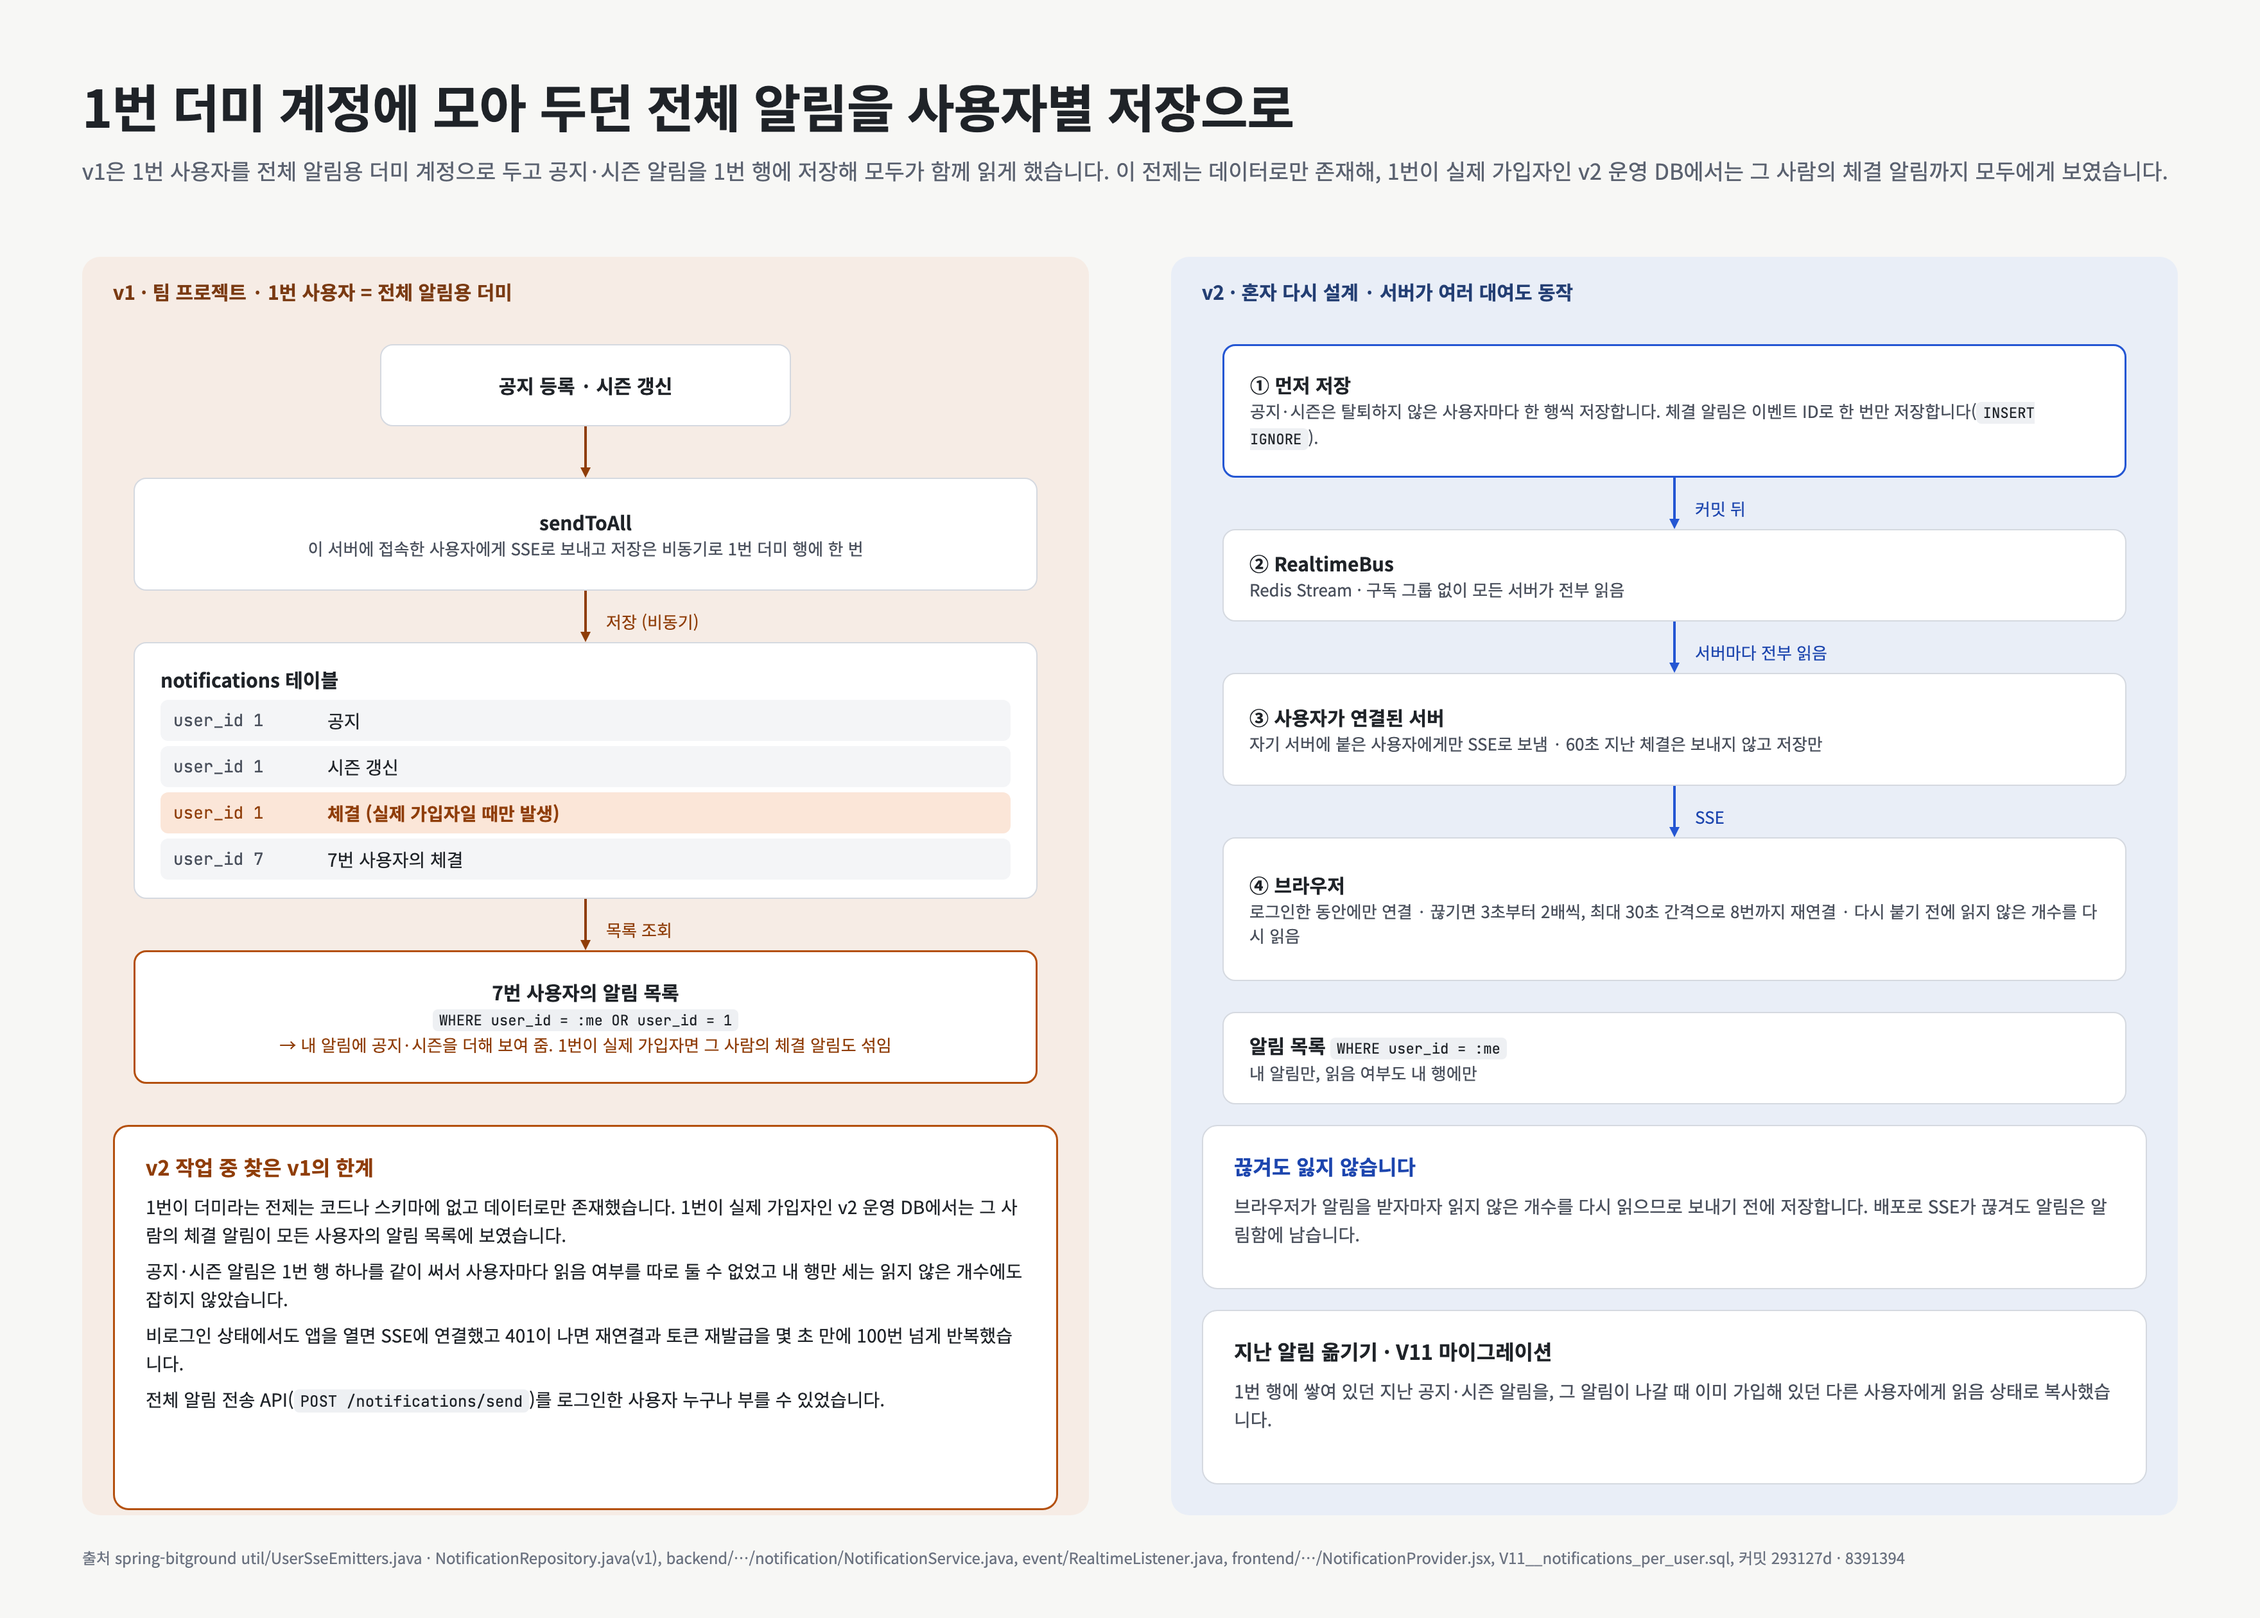
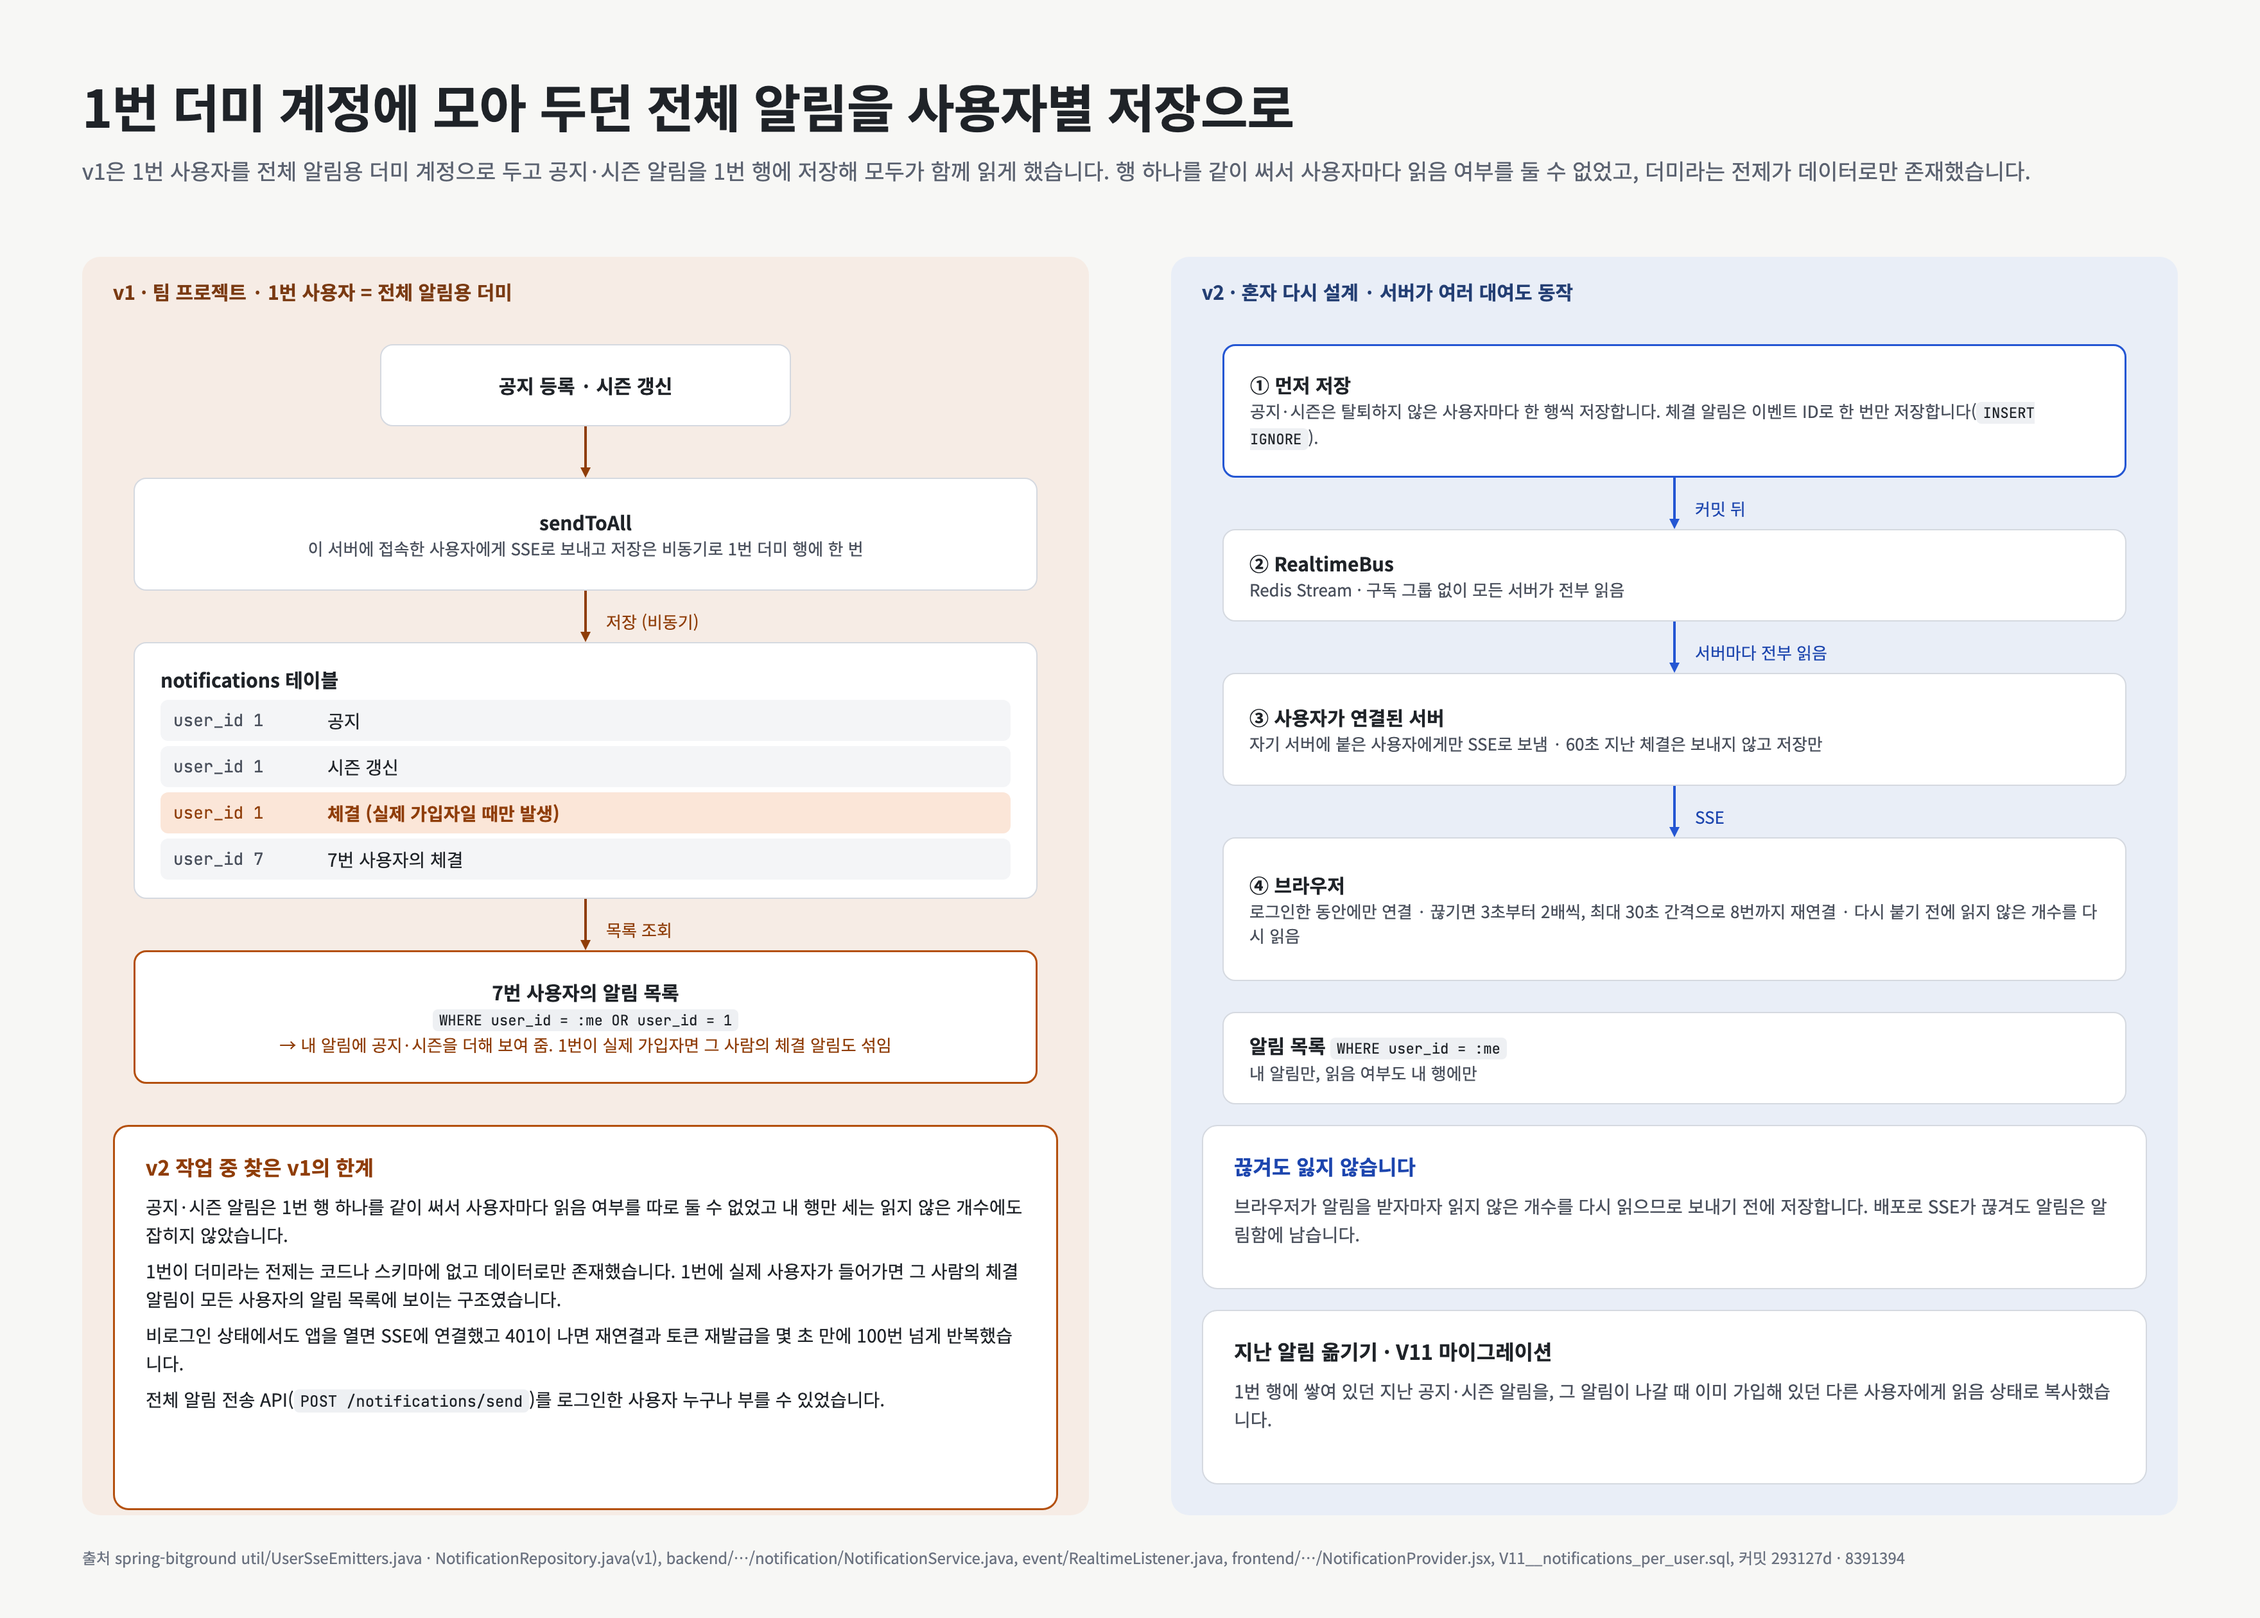
docs: 알림 한계 설명 바로잡기 — 운영 DB의 1번도 더미 계정 (v2.2.9)

Changed region(s): [[0.0625, 0.7429, 0.4375, 0.8048], [0.5, 0.0929, 0.9375, 0.1238]]

diff --git a/README.md b/README.md
@@ -53,7 +53,7 @@
 - **근거**: 커밋 [4f05885](https://github.com/lepe99/bitground/commit/4f05885) · [0749c83](https://github.com/lepe99/bitground/commit/0749c83) · [38aea34](https://github.com/lepe99/bitground/commit/38aea34), 통합 테스트 [main_test.go](scheduler/main_test.go)(커밋 [328f423](https://github.com/lepe99/bitground/commit/328f423)) · [season_test.go](scheduler/service/season_test.go), 그림 [시즌 정산 이전·이후](docs/DIAGRAMS.md#시즌-정산-v1-대-v2) · [Lambda 분리](docs/DIAGRAMS.md#스케줄러-lambda-분리)
 
 ### 3. 알림 (SSE)
-- **찾은 한계**: 공지·시즌 알림을 1번 사용자(전체 알림용 더미 계정)에게 모아 모두가 함께 읽게 했는데, 더미라는 전제가 코드나 스키마에 없고 데이터로만 존재했습니다. 1번이 실제 가입자인 운영 DB에서는 **그 사람의 체결 알림이 모든 사용자에게 보였습니다.** 읽음 여부도 1번 행 하나를 같이 써서 읽지 않은 개수에 잡히지 않았고, 비로그인 상태에서도 재연결을 몇 초에 100번 넘게 반복했습니다.
+- **찾은 한계**: 공지·시즌 알림을 1번 사용자(전체 알림용 더미 계정) 행 하나에 저장해 모두가 함께 읽게 해서, 사용자마다 읽음 여부를 둘 수 없었고 읽지 않은 개수에도 잡히지 않았습니다. 더미라는 전제는 코드나 스키마에 없이 데이터로만 존재해, 1번에 실제 사용자가 들어가면 그 사람의 체결 알림이 모두에게 보이는 구조였습니다. 비로그인 상태에서도 재연결을 몇 초에 100번 넘게 반복했습니다.
 - **해법**: 사용자별 저장과 지난 알림 백필, 로그인했을 때만 연결하고 지수 백오프로 재연결합니다. 알림은 먼저 저장하고 커밋 뒤에 보내며 여러 서버 중 사용자가 붙어 있는 서버가 보냅니다. 배포로 SSE가 끊겨도 알림은 알림함에 남습니다.
 - **근거**: 커밋 [293127d](https://github.com/lepe99/bitground/commit/293127d) · [8391394](https://github.com/lepe99/bitground/commit/8391394), 테스트 [UserSseEmittersTest](backend/src/test/java/bit/bitgroundspring/notification/UserSseEmittersTest.java) · [NotificationApiTest](backend/src/test/java/bit/bitgroundspring/api/NotificationApiTest.java), 그림 [알림 이전·이후](docs/DIAGRAMS.md#알림-v1-대-v2)
 

diff --git a/CHANGELOG.md b/CHANGELOG.md
@@ -11,6 +11,7 @@ PR에서 세 곳의 버전이 같은지와 새 버전인지 검사하고, 병합
 ### 문서
 - README를 현재 버전 중심으로 다시 썼습니다. 팀 프로젝트(v1)와의 비교표와 v1 역할 설명을 빼고, 'v1 → v2' 섹션은 '다시 설계한 부분'으로 바꿔 찾은 한계와 해법만 남겼습니다.
 - v1 소개와 역할은 v1 저장소(spring·react·go-bitground)의 README로 옮겼습니다.
+- 알림 한계 설명을 바로잡았습니다. 운영 DB에서도 1번은 더미 계정이어서 남의 체결 알림이 실제로 보인 적은 없고, 그럴 수 있는 구조였다는 점과 읽지 않은 개수 문제만 남겼습니다. 알림 그림도 같이 고쳤습니다.
 
 ## [2.2.8] - 2026-11-17
 
